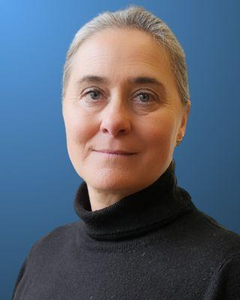
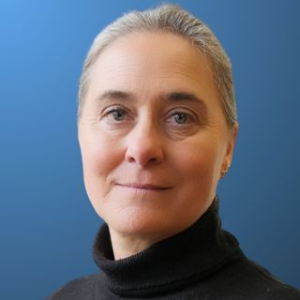
Cambios fotos y haabla aapp

diff --git a/src/components/Colaboradores.jsx b/src/components/Colaboradores.jsx
@@ -4,25 +4,25 @@ import './ImageCarousel.css';
 export default function Colaboradores() {
 
     const images = [
-        { id: 1, src: './assets/foto_AgustinAlvarez.png'},
-        { id: 2, src: './assets/foto_AgustinAlvarez.png'},
+        { id: 1, src: './assets/Agustin.png'},
+        { id: 2, src: './assets/Agustin.png'},
         { id: 3, src: './assets/Irene.png'},
-        { id: 4, src: './assets/elenax256.png'},
+        { id: 4, src: './assets/Elena.png'},
         { id: 5, src: './assets/danipfoto.jpg'},
         { id: 6, src: './assets/nikix256.png'},
         { id: 7, src: './assets/foto-daniel-gonzalez.jpg'},
-        { id: 8, src: './assets/raulfoto.png'}
+        { id: 8, src: './assets/FotoRaul.png'}
     ]
 
     const miembros = [
-        {id: 1, nombre: 'Rafael Martínez Olalla', txt: 'Lorem ipsum dolor sit amet, consectetur adipiscing elit. Nulla fermentum purus vitae lobortis feugiat. Aenean sem erat, vehicula sed nibh eget, tempor consequat risus. In sit amet ligula tortor. Integer at quam risus. In finibus purus id maximus fringilla. Nunc dignissim diam quis finibus venenatis. Integer finibus tellus eget commodo accumsan. Donec viverra hendrerit nisl.'},
-        {id: 2, nombre: 'Agustín Álvarez Marquina', txt: 'Lorem ipsum dolor sit amet, consectetur adipiscing elit. Nulla fermentum purus vitae lobortis feugiat. Aenean sem erat, vehicula sed nibh eget, tempor consequat risus. In sit amet ligula tortor. Integer at quam risus. In finibus purus id maximus fringilla. Nunc dignissim diam quis finibus venenatis. Integer finibus tellus eget commodo accumsan. Donec viverra hendrerit nisl.'},
-        {id: 3, nombre: 'Irene Hidalgo Guía', txt: 'Lorem ipsum dolor sit amet, consectetur adipiscing elit. Nulla fermentum purus vitae lobortis feugiat. Aenean sem erat, vehicula sed nibh eget, tempor consequat risus. In sit amet ligula tortor. Integer at quam risus. In finibus purus id maximus fringilla. Nunc dignissim diam quis finibus venenatis. Integer finibus tellus eget commodo accumsan. Donec viverra hendrerit nisl.'},
-        {id: 4, nombre: 'Daniel Palacios Alonso', txt: 'Lorem ipsum dolor sit amet, consectetur adipiscing elit. Nulla fermentum purus vitae lobortis feugiat. Aenean sem erat, vehicula sed nibh eget, tempor consequat risus. In sit amet ligula tortor. Integer at quam risus. In finibus purus id maximus fringilla. Nunc dignissim diam quis finibus venenatis. Integer finibus tellus eget commodo accumsan. Donec viverra hendrerit nisl.'},
-        {id: 5, nombre: 'Elena Garayzábal Heinze', txt: 'Lorem ipsum dolor sit amet, consectetur adipiscing elit. Nulla fermentum purus vitae lobortis feugiat. Aenean sem erat, vehicula sed nibh eget, tempor consequat risus. In sit amet ligula tortor. Integer at quam risus. In finibus purus id maximus fringilla. Nunc dignissim diam quis finibus venenatis. Integer finibus tellus eget commodo accumsan. Donec viverra hendrerit nisl.'},
-        {id: 6, nombre: 'Nikola Hristov Kalamov', txt: 'Lorem ipsum dolor sit amet, consectetur adipiscing elit. Nulla fermentum purus vitae lobortis feugiat. Aenean sem erat, vehicula sed nibh eget, tempor consequat risus. In sit amet ligula tortor. Integer at quam risus. In finibus purus id maximus fringilla. Nunc dignissim diam quis finibus venenatis. Integer finibus tellus eget commodo accumsan. Donec viverra hendrerit nisl.'},
-        {id: 7, nombre: 'Daniel González García', txt: 'Lorem ipsum dolor sit amet, consectetur adipiscing elit. Nulla fermentum purus vitae lobortis feugiat. Aenean sem erat, vehicula sed nibh eget, tempor consequat risus. In sit amet ligula tortor. Integer at quam risus. In finibus purus id maximus fringilla. Nunc dignissim diam quis finibus venenatis. Integer finibus tellus eget commodo accumsan. Donec viverra hendrerit nisl.'},
-        {id: 8, nombre: 'Raúl Fernández Ruiz', txt: 'Lorem ipsum dolor sit amet, consectetur adipiscing elit. Nulla fermentum purus vitae lobortis feugiat. Aenean sem erat, vehicula sed nibh eget, tempor consequat risus. In sit amet ligula tortor. Integer at quam risus. In finibus purus id maximus fringilla. Nunc dignissim diam quis finibus venenatis. Integer finibus tellus eget commodo accumsan. Donec viverra hendrerit nisl.'}
+        {id: 1, nombre: 'Rafael Martínez Olalla',scholar:'https://scholar.google.com/scholar?hl=es&as_sdt=0%2C5&q=rafael+martinez+olalla&btnG=', txt: 'Lorem ipsum dolor sit amet, consectetur adipiscing elit. Nulla fermentum purus vitae lobortis feugiat. Aenean sem erat, vehicula sed nibh eget, tempor consequat risus. In sit amet ligula tortor. Integer at quam risus. In finibus purus id maximus fringilla. Nunc dignissim diam quis finibus venenatis. Integer finibus tellus eget commodo accumsan. Donec viverra hendrerit nisl.'},
+        {id: 2, nombre: 'Agustín Álvarez Marquina',scholar:'https://scholar.google.com/scholar?hl=es&as_sdt=0%2C5&q=agustin+alvarez+marquina&btnG=&oq=Agustin+Alvarez+ma' , txt: 'Lorem ipsum dolor sit amet, consectetur adipiscing elit. Nulla fermentum purus vitae lobortis feugiat. Aenean sem erat, vehicula sed nibh eget, tempor consequat risus. In sit amet ligula tortor. Integer at quam risus. In finibus purus id maximus fringilla. Nunc dignissim diam quis finibus venenatis. Integer finibus tellus eget commodo accumsan. Donec viverra hendrerit nisl.'},
+        {id: 3, nombre: 'Irene Hidalgo Guía',scholar: 'https://scholar.google.com/scholar?hl=es&as_sdt=0%2C5&q=irene+hidalgo+de+la+gu%C3%ADa&btnG=&oq=Irene+Hidal', txt: ' es profesora en el Departamento de Lengua española y Teoría de la literatura en la Universidad Complutense de Madrid. Es doctora en Lingüística Clínica y está especializada en Fonética y Fonología del español. Su investigación gira en torno a la aplicación clínica y forense de la Fonética y de la Fonología del español. Colabora en el Laboratorio de Procesado Neuromórfico de la Voz, en el Centro de Tecnología Biomédica de la Universidad Politécnica de Madrid, y es miembro del grupo de Lingüistas Forenses. También colabora con la Universidad Rey Juan Carlos en el desarrollo de aplicaciones de biometría del habla.'},
+        {id: 4, nombre: 'Elena Garayzábal Heinze',scholar:'https://scholar.google.com/scholar?hl=es&as_sdt=0%2C5&q=Elena+Garayz%C3%A1bal+Heinze&btnG=' ,txt: ' es logopeda y profesora titular del departamento de Lingüística General de la Universidad Autónoma de Madrid. Está especializada en la aplicación de la Lingüística Clínica y su investigación se centra en el estudio de enfermedades genéticas del neurodesarrollo de baja frecuencia, entre ellas el síndrome de Smith-Magenis.'},
+        {id: 5, nombre: 'Daniel Palacios Alonso',scholar:'https://scholar.google.com/scholar?hl=es&as_sdt=0%2C5&q=daniel+palacios+alonso&btnG=&oq=Daniel', txt: 'Lorem ipsum dolor sit amet, consectetur adipiscing elit. Nulla fermentum purus vitae lobortis feugiat. Aenean sem erat, vehicula sed nibh eget, tempor consequat risus. In sit amet ligula tortor. Integer at quam risus. In finibus purus id maximus fringilla. Nunc dignissim diam quis finibus venenatis. Integer finibus tellus eget commodo accumsan. Donec viverra hendrerit nisl.'},
+        {id: 6, nombre: 'Nikola Hristov Kalamov',scholar: 'https://scholar.google.com/scholar?hl=es&as_sdt=0,5&q=Nikola+Hristov+Kalamov', txt: ' es investigador predoctoral en el grupo SA-BIO de la Universidad Rey Juan Carlos. Es graduado en Diseño y Desarrollo de Videojuegos y máster en Ingeniería de Sistemas de Decisión. Su tesis, “Avances en Criptografía y sus Aplicaciones: Protección y Distribución de Datos Personales, Sanitarios, Hospitalarios y Biométricos”, se centra en el análisis seguro de datos biométricos y biomédicos.'},
+        {id: 7, nombre: 'Daniel González García',scholar:'https://www.linkedin.com/in/daniel-gonz%C3%A1lez-garc%C3%ADa-460427323', txt: 'Lorem ipsum dolor sit amet, consectetur adipiscing elit. Nulla fermentum purus vitae lobortis feugiat. Aenean sem erat, vehicula sed nibh eget, tempor consequat risus. In sit amet ligula tortor. Integer at quam risus. In finibus purus id maximus fringilla. Nunc dignissim diam quis finibus venenatis. Integer finibus tellus eget commodo accumsan. Donec viverra hendrerit nisl.'},
+        {id: 8, nombre: 'Raúl Fernández Ruiz',scholar:'https://scholar.google.com/scholar?hl=es&as_sdt=0%2C5&q=Raul+Fernandez+Ruiz&btnG=', txt: ' es profesor en el Departamento de Informática y Estadística de la Universidad Rey Juan Carlos. Graduado en Diseño y Desarrollo de Videojuegos y con un máster en Ingeniería de Sistemas de Decisión, realiza su tesis doctoral en la aplicación de modelos de aprendizaje automático a enfermedades de baja prevalencia.'}
     ]
 
 
@@ -71,7 +71,7 @@ export default function Colaboradores() {
                     <button className="nav-button right" onClick={handleNextClick}>&gt;</button>
                 </div>
                 <div className="flex-1">
-                    <p className="mb-10 max-w-2xl font-Ovo">{miembros[currentImageIndex].txt}</p>
+                    <p className="mb-10 max-w-2xl font-Ovo text-justify"><a href={miembros[currentImageIndex].scholar} target="_blank" style={{color:"blue"}}>{miembros[currentImageIndex].nombre}</a>{miembros[currentImageIndex].txt}</p>
                 </div>
             </div>
         </div>

diff --git a/src/components/HablApp.jsx b/src/components/HablApp.jsx
@@ -32,34 +32,34 @@ export default function HablApp() {
         {
             name: 'Completamente segura',
             icon: './assets/web-icon.png',
-            description: 'Todo el traspaso de información se encuentra cifrado. Toda la información es almacenada en servidores del proyecto y no de terceros',
+            description: 'Todo el traspaso de información se encuentra cifrado. Asimismo, los datos se almacenan exclusivamente en los servidores propios del proyecto, sin recurrir a infraestructuras de terceros.',
             link: '#',
         },
         {
-            name: 'Disponible en Adroid e IOS',
+            name: 'Adroid e IOS',
             icon: './assets/mobile-icon.png',
-            description: 'La aplicación se encuentra disponible para dispositvos IOS e Android',
+            description: 'La aplicación se encuentra disponible para dispositvos IOS y Android.',
             link: '#',
         },
         {
-            name: 'Compatible con dispostivos tablet',
+            name: 'Compatibilidad con tablet',
             icon: './assets/logoTablet.png',
-            description: 'La app puede es complatible con tablets para facilitar su uso',
+            description: 'La app es compatible con dispositivos tablet para facilitar su uso.',
             link: '#',
         }
     ];
     return (
         <div id="hablapp" className="w-full px-[12%] py-10 scroll-mt-20">
-            <h4 className="text-center mb-2 text-lg font-Ovo">Nuestra aplicación para recogida de muestras a distancia</h4>
             <h2 className="text-center text-5xl font-Ovo">HablApp</h2>
-            <p className="text-center max-w-2xl mx-auto mt-5 mb-12 font-Ovo">HablApp es una aplicación desarrollada para el proyecto CarHaVoz. La aplicación se compone de seis ejercicios</p>
+            <p className="text-center max-w-2xl mx-auto mt-5 font-Ovo text-justify">HablApp es una aplicación desarrollada para el proyecto CarHaVoz. Su objetivo es facilitar la obtención de muestras de voz a distancia, permitiendo realizar estudios longitudinales y facilitando los procesos de grabación a las familias. De este modo, se evitan desplazamientos y cada familia puede realizar las grabaciones en el momento que le resulte más conveniente.</p>
+            <p className="text-center max-w-2xl mx-auto mt-5 mb-12 font-Ovo text-justify">La aplicación se compone de 6 ejercicios centrados en rasgos prosódicos y fonológicos, el objetivo es realizar una grabación de cada ejercicio por semana. Al finalizar cada ejercicio, las grabaciones pueden escucharse de nuevo para comprobar que no hay ruidos de fondo o interferencias. Una vez comprobado que el audio es correcto, este debe enviarse directamente a través de la aplicación a nuestros servidores alojados en la universidad.</p>
 
             <div className="grid grid-cols-auto gap-6 my-10">
                 {services.map((service) => (
                     <div key={service.name} className="border border-gray-300 dark:border-white/30 rounded-lg px-8 py-12 hover:shadow-black cursor-pointer hover:bg-lightHover hover:-translate-y-1 duration-500 dark:hover:bg-darkHover dark:hover:shadow-white">
                         <img src={service.icon} alt="" className="w-10" />
                         <h3 className="text-lg my-4 text-gray-700 dark:text-white">{service.name}</h3>
-                        <p className="text-sm text-gray-600 leading-5 dark:text-white/80">{service.description}</p>
+                        <p className="text-sm text-gray-600 leading-5 dark:text-white/80 text-justify">{service.description}</p>
                     </div>
                 ))}
             </div>
